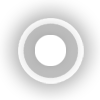
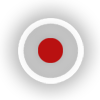
Nereus: Updated RecordButton and added to TvOSD, added CurrentIndicatorBubble to all OSD's, removed not used files, clean-up

Changed region(s): [[0.33, 0.33, 0.66, 0.66]]

diff --git a/MediaPortal/Source/UI/TV/SlimTvClient/Skin/Nereus/themes/default/styles/SlimTvStyles.xaml b/MediaPortal/Source/UI/TV/SlimTvClient/Skin/Nereus/themes/default/styles/SlimTvStyles.xaml
@@ -50,10 +50,11 @@
                        Fill="{ThemeResource OSDProgressBarBackgroundColor}" RadiusX="5" RadiusY="5"/>
 
             <Grid x:Name="ProgressBarIndicator" HorizontalAlignment="Left" VerticalAlignment="Center">
-              <Grid VerticalAlignment="Center" HorizontalAlignment="Right" Margin="-160,-40,-35,0" Height="55">
+              <Grid VerticalAlignment="Center" HorizontalAlignment="Right" Margin="-144,-45,-51,1" Height="55">
+                <Image Source="PlayerControl\Time.Indicator.png" Height="55" Stretch="Uniform" VerticalAlignment="Center" HorizontalAlignment="Center" Opacity="0.9"/>
                 <Label x:Name="CurrentTimeLabel" Content="{Binding Source={StaticResource TimeModel}, Path=CurrentTime}"
-                       HorizontalAlignment="Center" VerticalAlignment="Center" Margin="0,0,0,24"
-                       Color="White" FontSize="{ThemeResource SmallerFontSize}"/>
+                       HorizontalAlignment="Center" VerticalAlignment="Center" Margin="0,0,0,12" Opacity="0.9" 
+                       Color="Black" FontSize="{ThemeResource SmallerFontSize}" FontFamily="SegoeUIBold"/>
               </Grid>
               <Rectangle Width="{TemplateBinding PartIndicatorWidth}" HorizontalAlignment="Left" VerticalAlignment="Center"
                          RadiusX="5" RadiusY="5" Height="10" Fill="{ThemeResource ProgressBarFillColor}"/>
@@ -282,7 +283,7 @@
                     <Label x:Name="CurrentProgramStartLabel" Grid.Column="0" Margin="5,0,5,0"
                            Content="{Binding Path=CurrentProgram.StartTime, Converter={StaticResource SlimTvDateFormatConverter}}"
                            Color="{ThemeResource TextColor}" HorizontalAlignment="Right" VerticalAlignment="Center"
-                           FontSize="{ThemeResource SmallerFontSize}"/>
+                           FontSize="{ThemeResource SmallerFontSize}" Scroll="Auto" ScrollDelay="0" ScrollSpeed="20"/>
 
                     <ProgressBar x:Name="CurrentProgramProgress" Grid.Column="1" Height="18" HorizontalAlignment="Stretch" VerticalAlignment="Center" Margin="5,5,5,0"
                                  Style="{ThemeResource OSDTVProgressBarStyle}" Value="{Binding Source={StaticResource SlimTvClient},Path=ProgramProgress}" />
@@ -290,7 +291,7 @@
                     <Label x:Name="CurrentProgramEndLabel" Grid.Column="2" Margin="5,0,5,0"
                            Content="{Binding Path=CurrentProgram.EndTime, Converter={StaticResource SlimTvDateFormatConverter}}"
                            Color="{ThemeResource TextColor}" HorizontalAlignment="Left" VerticalAlignment="Center"
-                           FontSize="{ThemeResource SmallerFontSize}"/>
+                           FontSize="{ThemeResource SmallerFontSize}" Scroll="Auto" ScrollDelay="0" ScrollSpeed="20"/>
                   </Grid>
                 </DockPanel>
               </ControlTemplate>
@@ -300,19 +301,21 @@
 
                   <StackPanel x:Name="PlayControlsPanel_Front" DockPanel.Dock="Left" Orientation="Horizontal" VerticalAlignment="Center" HorizontalAlignment="Stretch" Height="90">
                     <Button x:Name="SkipBackButton" Style="{ThemeResource SkipBackButtonStyle}" Margin="{ThemeResource PlayerControlButtonMargins}" IsVisible="{Binding CanSkipBack}"
-                          Command="{Command Previous}"/>
+                            Command="{Command Previous}"/>
                     <Button x:Name="RewindButton" Style="{ThemeResource RewindButtonStyle}" Margin="{ThemeResource PlayerControlButtonMargins}" IsVisible="{Binding CanSeekBackward}"
-                          Command="{Command SeekBackward}"/>
+                            Command="{Command SeekBackward}"/>
                     <Button x:Name="PlayButton" Style="{ThemeResource PlayButtonStyle}" Margin="{ThemeResource PlayerControlButtonMargins}" IsVisible="{Binding CanPlay}"
-                          Command="{Command Play}"/>
+                            Command="{Command Play}"/>
                     <Button x:Name="PauseButton" Style="{ThemeResource PauseButtonStyle}" Margin="{ThemeResource PlayerControlButtonMargins}" IsVisible="{Binding CanPause}"
-                          Command="{Command Pause}"/>
+                            Command="{Command Pause}"/>
                     <Button x:Name="StopButton" Style="{ThemeResource StopButtonStyle}" Margin="{ThemeResource PlayerControlButtonMargins}" IsVisible="{Binding CanStop}"
-                          Command="{Command Stop}"/>
+                            Command="{Command Stop}"/>
                     <Button x:Name="ForwardButton" Style="{ThemeResource ForwardButtonStyle}" Margin="{ThemeResource PlayerControlButtonMargins}" IsVisible="{Binding CanSeekForward}"
-                          Command="{Command SeekForward}"/>
+                            Command="{Command SeekForward}"/>
                     <Button x:Name="SkipForwardButton" Style="{ThemeResource SkipForwardButtonStyle}" Margin="{ThemeResource PlayerControlButtonMargins}" IsVisible="{Binding CanSkipForward}"
-                          Command="{Command Next}"/>
+                            Command="{Command Next}"/>
+                    <Button x:Name="RecordButton" Style="{ThemeResource RecordButtonStyle}" Command="{Command RecordDialog}"
+                            Context="{Model Id=8BEC1372-1C76-484c-8A69-C7F3103708EC}"/>
                   </StackPanel>
 
                   <StackPanel x:Name="PlayControlsPanel_Back" DockPanel.Dock="Right" Orientation="Horizontal" VerticalAlignment="Center" HorizontalAlignment="Stretch" Height="90">

diff --git a/MediaPortal/Source/UI/Skins/Nereus/Skin/Nereus/themes/default/styles/OtherControlsOverrides.xaml b/MediaPortal/Source/UI/Skins/Nereus/Skin/Nereus/themes/default/styles/OtherControlsOverrides.xaml
@@ -785,7 +785,7 @@
     </Setter>
   </Style>
 
-  <Style x:Key="PlayerControlsProgressBarStyle" TargetType="{x:Type ProgressBar}">
+  <!--Style x:Key="PlayerControlsProgressBarStyle" TargetType="{x:Type ProgressBar}">
     <Setter Property="Template">
       <Setter.Value>
         <ControlTemplate TargetType="{x:Type ProgressBar}">
@@ -825,11 +825,11 @@
                      VerticalAlignment="Center" HorizontalAlignment="Center"/>
             </StackPanel>
             <Grid x:Name="ProgressBarIndicator" HorizontalAlignment="Left" VerticalAlignment="Center">
-              <Grid VerticalAlignment="Center" HorizontalAlignment="Right" Margin="-100,-85,-95,0" Height="114">
-                <Image Source="PlayerControl\Time.Indicator.png" Height="114" Stretch="Uniform" VerticalAlignment="Center" HorizontalAlignment="Center" Opacity="0.9"/>
+              <Grid VerticalAlignment="Center" HorizontalAlignment="Right" Margin="-153,-45,-42,0" Height="53">
+                <Image Source="PlayerControl\Time.Indicator.png" Height="53" Stretch="Uniform" VerticalAlignment="Center" HorizontalAlignment="Center" Opacity="0.9"/>
                 <Label x:Name="CurrentTimeLabel" Grid.Column="0" Grid.Row="0" Content="{Binding CurrentTime}" Opacity="0.9"
-                       HorizontalAlignment="Center" VerticalAlignment="Center" Margin="0,0,0,24" FontFamily="SegoeUIBold"
-                       Color="Black" FontSize="{ThemeResource SmallFontSize}"/>
+                       HorizontalAlignment="Center" VerticalAlignment="Center" Margin="0,0,0,11" FontFamily="SegoeUIBold"
+                       Color="Black" FontSize="{ThemeResource SmallerFontSize}"/>
               </Grid>
               <Rectangle Width="{TemplateBinding PartIndicatorWidth}" HorizontalAlignment="Left" VerticalAlignment="Center"
                          RadiusX="3.5" RadiusY="3.5" Height="10" Fill="{ThemeResource ProgressBarFillColor}" Margin="0,0,0,0"/>
@@ -843,7 +843,7 @@
         </ControlTemplate>
       </Setter.Value>
     </Setter>
-  </Style>
+  </-->
 
   <Style x:Key="OSDProgressBarStyle" TargetType="{x:Type ProgressBar}">
     <Setter Property="Template">
@@ -861,10 +861,11 @@
                        Fill="{ThemeResource OSDProgressBarBackgroundColor}" RadiusX="5" RadiusY="5"/>
 
             <Grid x:Name="ProgressBarIndicator" HorizontalAlignment="Left" VerticalAlignment="Center">
-              <Grid VerticalAlignment="Center" HorizontalAlignment="Right" Margin="-160,-40,-40,0" Height="55">
-                <Label x:Name="CurrentTimeLabel" Content="{Binding CurrentTime}"
-                       HorizontalAlignment="Center" VerticalAlignment="Center" Margin="0,0,0,24"
-                       Color="White" FontSize="{ThemeResource SmallerFontSize}"/>
+              <Grid VerticalAlignment="Center" HorizontalAlignment="Right" Margin="-144,-45,-51,1" Height="55">
+                <Image Source="PlayerControl\Time.Indicator.png" Height="55" Stretch="Uniform" VerticalAlignment="Center" HorizontalAlignment="Center" Opacity="0.9"/>
+                <Label x:Name="CurrentTimeLabel" Grid.Column="0" Grid.Row="0" Content="{Binding CurrentTime}" Opacity="0.9"
+                       HorizontalAlignment="Center" VerticalAlignment="Center" Margin="0,0,0,12" FontFamily="SegoeUIBold"
+                       Color="Black" FontSize="{ThemeResource SmallerFontSize}"/>
               </Grid>
               <Rectangle Width="{TemplateBinding PartIndicatorWidth}" HorizontalAlignment="Left" VerticalAlignment="Center"
                          RadiusX="5" RadiusY="5" Height="10" Fill="{ThemeResource ProgressBarFillColor}"/>

diff --git a/MediaPortal/Source/UI/Skins/Nereus/Skin/Nereus/themes/default/styles/MediaStyles.xaml b/MediaPortal/Source/UI/Skins/Nereus/Skin/Nereus/themes/default/styles/MediaStyles.xaml
@@ -49,7 +49,7 @@
                Color="{ThemeResource TextColor}" HorizontalAlignment="Right" VerticalAlignment="Center"
                FontSize="{ThemeResource SmallerFontSize}" Margin="5,0,5,0"/-->
 
-        <ProgressBar x:Name="ProgressBar" Grid.Column="0" Height="18" HorizontalAlignment="Stretch" VerticalAlignment="Center" Margin="5,5,5,0"
+        <ProgressBar x:Name="ProgressBar" Height="18" HorizontalAlignment="Stretch" VerticalAlignment="Center" Margin="15,5,5,0"
                      Style="{ThemeResource OSDProgressBarStyle}" Value="{Binding Path=PercentPlayed, Mode=TwoWay}" />
 
         <Label x:Name="VideoDurationLabel" Grid.Column="1" Content="{Binding Duration}"
@@ -251,8 +251,8 @@
 
               <ControlTemplate x:Key="OSD_Progress_Template">
                 <DockPanel LastChildFill="true" Margin="0,10,0,10" HorizontalAlignment="Stretch">
-                  <ProgressBar x:Name="ProgressBar" Height="35" HorizontalAlignment="Stretch" VerticalAlignment="Center"
-                               Value="{Binding Path=PercentPlayed, Mode=TwoWay}" Style="{ThemeResource PlayerControlsProgressBarStyle}"/>
+                  <ProgressBar x:Name="ProgressBar" Height="18" HorizontalAlignment="Stretch" VerticalAlignment="Center"
+                               Value="{Binding Path=PercentPlayed, Mode=TwoWay}" Style="{ThemeResource OSDProgressBarStyle}"/>
                 </DockPanel>
               </ControlTemplate>
 
